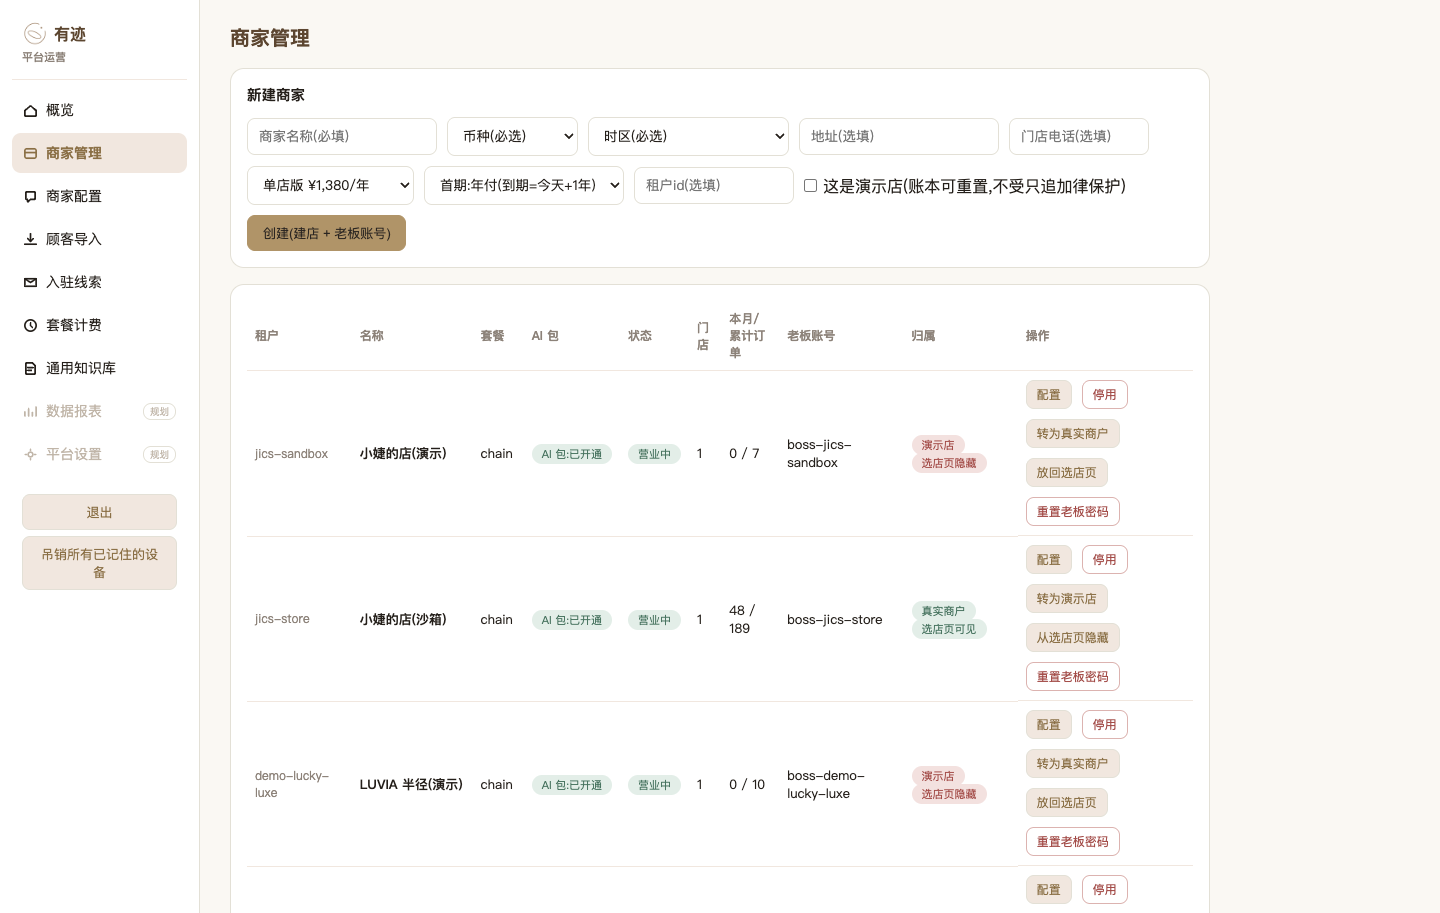
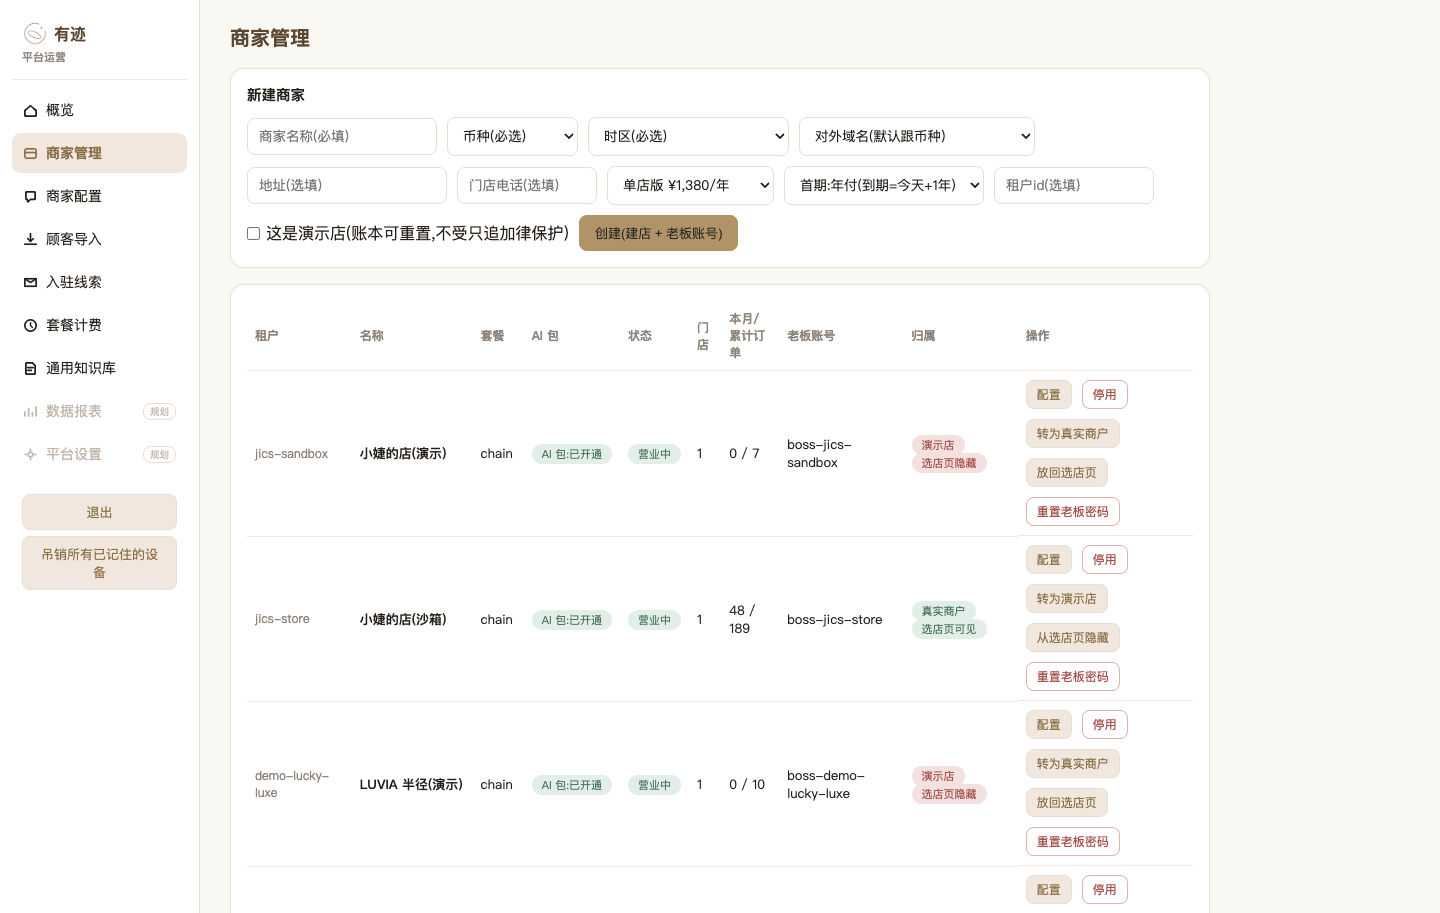
11t 回执:北京国贸店 28 行已导入生产 · 五步灯 · 截图收口
生产导入 28 行(独立备份在先),逐行对 CSV 全中;
🔴 足部美甲加收 duration = 0 —— 那个 `|| 60` 修真的救回来了
🟢 反向守:jics-nail 27→27 · lucky-luxe 7→7,一行没动
顾客端 23 个项目(28−5 加项),加项永不见客;像素层截图验过

🔴 截图又踩一次「可见性 ≠ 有内容」:第一张 17KB 一片黑而判据放行了(settle 不够)。
   拿已知正常的小婕店做对照,才认出是我的测法问题不是产品坏了。
   登记:可见性判据要补一条「文字长度下限」

Changed region(s): [[0.1562, 0.184, 0.5312, 0.276], [0.5312, 0.1227, 0.7812, 0.2147]]

diff --git a/handoff/night-runs/11t回执_价目表已导28行_五步灯_复发装护栏_2026-09-23.md b/handoff/night-runs/11t回执_价目表已导28行_五步灯_复发装护栏_2026-09-23.md
@@ -1,0 +1,175 @@
+# 小批 11t 回执 · 北京国贸店 28 行已导 · 五步灯 · 复发装护栏
+
+**上游令**:`handoff/小批11t_推零吞修再导_店资料店主自改_五步灯先四盏_2026-09-23.md`
+**md5 三端一致**:`3d4f7bad09e2e4eee8ea7fc35e7b4059`
+同批落地:`11r`(`d0ae780d20e41a9c91af88dfaca1a245`)· `11s`(`e562e801957968cbc1659913da731ca4`)· `11s补`(`4d51725be3c979590d094bff64e77352`)
+
+> **生产写入一次(导入 28 行),独立备份在先**:
+> `backups/lucky-luxe-20260922T174217Z-pre-import-luviabj.sqlite`(6,139,904 字节 / 94 表 / 已验证可打开)
+> 另有推前备份 `…T165013Z-pre-push-11t.sqlite`。
+
+---
+
+## §一 推 + 导
+
+### J-117:先贴未推全量
+推之前 `git log origin/main..HEAD` = **0 个**(11q 那批已全推),待推的只有工作区那一批。
+预检**在要推的那个提交上**跑(11r 新加的那条)。
+
+### 🔴 CI 红了一次 —— 同一条,第二次
+
+**先说要紧的:🟢 Wait for CI 挡住了,生产全程停在旧 commit,线上一秒没受影响。**
+
+红的是预检:`历史最低 17526 > 上一提交 17521`。
+**和 11q 那次一模一样的漏法**:我又降了行数(抽取 `/platform/overview` 之后 17,526 → 17,521),
+**提交之后没重跑预检**。而 11q 那次我只是**把教训写进了那条判据旁边的注释**。
+
+> 《复发登记》:**如果下次还能靠同样的疏忽再来一遍,说明护栏没装上,不许结案。**
+> **注释挡不住任何事。**
+
+**根治**:「历史最低 > 上一提交」时,**预检自己把它写下去**。
+那是**降**,而这条律本来就明写「只许写小」—— 降是合法的,没有理由要人手动做一遍。
+
+### 🔴 而我第一版护栏顺手拆了另一道闸 —— 反向守当场抓住
+
+第一版写成「见 `floor > head` 就自动改小」。造病把历史最低偷偷写成 **99999(放宽)**,
+**它自动改回来然后放行** —— 「写大当场红」那条判据**被我吃掉了**。
+
+正解是分清两种 `floor > head`:
+
+| 情形 | 判法 | 处置 |
+|---|---|---|
+| **行数降了**(floor 停在上次提交的值) | `floor == git show HEAD: 里那个值` | 🟢 跟降,合法 |
+| **有人把 floor 写大了** | `floor > git show HEAD: 里那个值` | 🔴 放宽,当场红 |
+
+**三向验过**:写大 99999 ⇒ 🔴 红且值没被偷改 · 真降 ⇒ 🟢 跟降到 17521 ·
+写小 17000(文件相对它涨了)⇒ 🔴 按涨判红且值不乱动。
+
+### 导入 28 行(生产,已执行)
+
+```
+【执行】created = 28   verdict: 可以导入:28 行,全部已挂大类
+【读回】28 个项目 · 86 条价格
+```
+
+**逐行对 CSV,28 行全中**(原价 / 分享 / 会员三档 + 时长 + 主项/加项)。要害三条:
+
+| 条 | 结果 |
+|---|---|
+| 🔴 **足部美甲加收 duration = 0** | ✅ **0**(11t 点名那一行 —— 那个 `\|\| 60` 修真的救回来了) |
+| 疗程 | 富勒烯 ¥558/3次 · 云足焕肤 ¥648/3次 |
+| 加项 5 个 | 浅贴甲片 · 甲膜延长 · 本甲延短 · 足部美甲加收 · 手部新中式精修前置处理 |
+
+🟢 **反向守(11t §一.3)**:`jics-nail` services **27 → 27** · `lucky-luxe` **7 → 7**,一行没动。
+
+### 顾客端只读实访 + 截图
+
+```
+app.jingshengyouji.com/?store=luvia-bj   → 200(境内域,因为它是 CNY 店)
+/services?tenantId=luvia-bj              → 23 个项目
+足部加收在顾客端出现吗                    → 否 ✅(28 − 5 个加项 = 23;加项永不见客,规则①)
+```
+
+**截图**:`handoff/shots/11t_北京国贸店_价目页.png` ——
+店名、三个项目卡、**`¥288 起 · 80分钟`**(人民币符号 + 刚修的时长)、占位图「还没有图片」全都对。
+
+#### 🔴 截图这一步我又踩了一次「可见性 ≠ 有内容」
+
+第一张图 **17KB,页面一片黑只有页头** —— 而我那条可见性判据**放行了**(`main` 在,但里面是空的)。
+真因是 **settle 2.6 秒不够**,页面还没渲染完。
+诊断时我一度以为是北京店的问题,**拿小婕店做对照才发现它也是 31 字符** ——
+**是我的测法不对,不是产品坏了。** settle 改 7 秒后 123KB,内容齐。
+
+**登记**:可见性判据只证「那块元素在」,不证「它里面有东西」。
+要补一条「文字长度下限」才算真守住 —— 本批没做,登记待办。
+
+---
+
+## §二 店主三处资料:**你自己改,我没动**
+
+11t §二 裁「店主自己在平台后台改」。现读贴出来(生产只读):
+
+| 字段 | 现在的值 | 令里裁的 | 一致吗 |
+|---|---|---|---|
+| 店名 | `LUVIA 半径 (北京国贸店）` | `LUVIA 半径(北京国贸店)` | 🔴 **括号仍不配对**(开头半角 `(`,结尾中文 `）`) |
+| 地址 | `北京朝阳区建外街道CBD万达广场6号楼2005室` | `北京市朝阳区…` | 🔴 **仍缺「市」字** |
+| 电话 | `15698550698` | 主号保留 ✅ | ✅ |
+
+⏳ **这两处还没改** —— 平台后台「商家配置 → 门店信息」那三个框。改完我再读一次贴给你。
+
+---
+
+## §三 D197 五步灯(先四盏,第五盏恒灰)
+
+新件 `apps/api/onboarding-steps.mjs`。**灯由后端判、句子由后端出、前端零判断**。
+
+**真跑出来的样子**(多伦多店):
+
+```
+1. 建店      pending      还差:地址 · 电话
+2. 经营规则   done         6 个服务项目
+3. 老板账号   pending      账号 boss 已建,商家还没首登改密
+4. 企微接入   pending      还没填企微客服号(不填的话这家店的企微进线会被拒收)
+5. 上线检查   unavailable  提审清单尚未接入系统
+summary: 配到第 1 环:建店 —— 还差:地址 · 电话
+```
+
+**第一句就说中了实情**:多伦多店卡在建店环(地址电话是 `Address TBD`,被占位词表认出来了)。
+
+四条口径要点:
+- 灯1 按**占位词表**判 —— `Address TBD` 不是空,但它也不是地址
+- 灯3「建了但没改密」是 **pending 不是 done** —— 初始密码还在用,等于门还没交出去
+- 灯4 **空格不算填**(D132:未填则进线拒收,不许放松)
+- 🔴 灯5 **恒灰** —— 没有数据源的灯不许亮:亮绿是撒谎,亮红是冤枉。**判据钉住它不许变色**
+
+**21 条判据**,每盏一条阳性对照。
+
+### 抽取(裁#89)+ 连锁踩到三处,都是判据咬出来的
+
+加完 +6 超棘轮 ⇒ 把 `/platform/overview` 整条口搬进模块 ⇒ **17,521(低于棘轮 5 行)**。
+
+| # | 踩到什么 | 谁咬出来的 |
+|---|---|---|
+| 1 | 搬进去的代码还引用外面的变量名 `onboardingSteps` ⇒ 500 | 行为层判据 |
+| 2 | `test-user-write-auth` 只扫 `local-server.mjs`,路由搬走一条就少扫一条 ⇒ 241→**239** 破下限 | 那条下限判据 |
+| 3 | 夹具写死 kfid,而客服号**全局唯一** ⇒ 两档连跑第二遍撞 409 | 门关档 |
+
+🔴 **第 2 条的改法是改扫描面,不是调低下限**(下限 240 一个字没动)。
+
+---
+
+## §四 11e 盘点表(補令 §二.2,欠一周)
+
+`handoff/11e_后台盘点表_商家配置_2026-09-23.md`,对《有迹新店入驻向导》五步表逐格:
+**19 格 · 🟢8 · 🟡5 · 🔴6**,「图上有、代码里没有」单列六件。
+第一件就是店主那句「我看不出商家配置到哪一环」—— **本批 §三 做的正是它。**
+
+---
+
+## 五、固定六项
+
+**① 改了什么**:`|| 60` 吞 0 修 + 6 条判据;五步灯新件 + 21 条判据 + 概览抽取;预检护栏(复发根治);
+11e 盘点表;生产导入 28 行。
+
+**② 在哪一层验的**:🟢 **像素层**(价目页截图)+ 行为层(五步灯逐盏真跑)+ 生产数据层(逐行读回)。
+
+**③ 同类扫尽**:28 行逐行对 CSV;路由条数 241 带下限;五盏灯逐盏阳性对照。
+
+**④ 用什么数据验的**:拿**店主自己填的那份 CSV** 和**真的 `luvia-bj`**,不是编的夹具;
+诊断截图问题时**拿已知正常的小婕店做对照**,才没把自己的测法问题当成产品缺陷。
+
+**⑤ 重复稳定性**:相关套件跑了 12 轮;全量 2 轮;CI 红一次修完转绿。
+
+**⑥ 残留与不确定**:店名括号 / 地址「市」字等你改;D218 资料库、D215/D216/D217、11n 尚未开工;
+可见性判据要补「文字长度下限」(已登记)。
+
+**断言**:4,551 → 4,572(+21,正好是五步灯那套)
+**巨型文件**:`local-server.mjs` **17,521** · `admin.js` 7,893 · `customer.js` 2,458
+
+---
+
+## 六、这一批我犯的错(三个,都记在代码旁边)
+
+1. **同一条 CI 红两次** —— 第一次只写注释没装护栏。**注释挡不住任何事。**
+2. **装护栏时顺手拆了另一道闸** —— 自动跟降把「写大当场红」吃掉了,**反向守当场抓住**。
+3. **截图「可见性 ≠ 有内容」** —— 判据放行了一张空白页;**拿对照组才认出是我的测法问题**。

diff --git a/handoff/写库脚本护栏三列清单.md b/handoff/写库脚本护栏三列清单.md
@@ -2,7 +2,7 @@
 
 > 生成器:`tools/gen-guard-checklist.mjs` · 尺子:`tools/guard-scan.mjs`(**唯一一份**,
 > `test-db-target-guard` / `test-txn-rollback` 用的是同一个 `scanWriteSites()`)
-> 生成于提交 `54e22a3`
+> 生成于提交 `43d98a8`
 >
 > **为什么不手写**(店主 03z §一 裁):手写那份停在 09-02 —— 第二列 10 处还写着 ⬜ 而护栏早已接上,
 > 第三列九处也已验过回滚,清单没跟着动。更要紧的是:清单写着「包了事务」的九处里,
